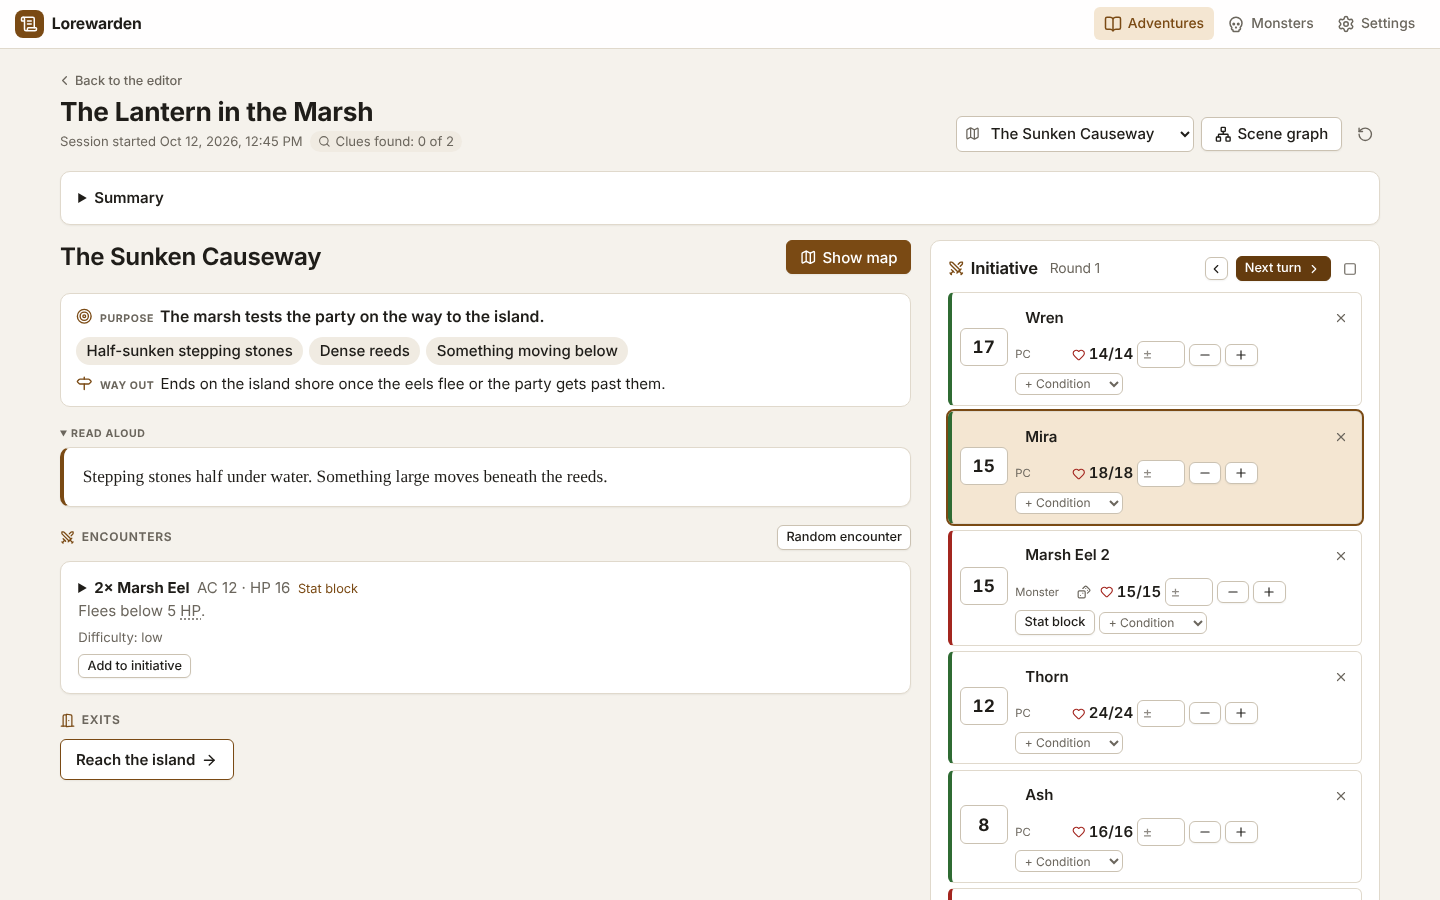
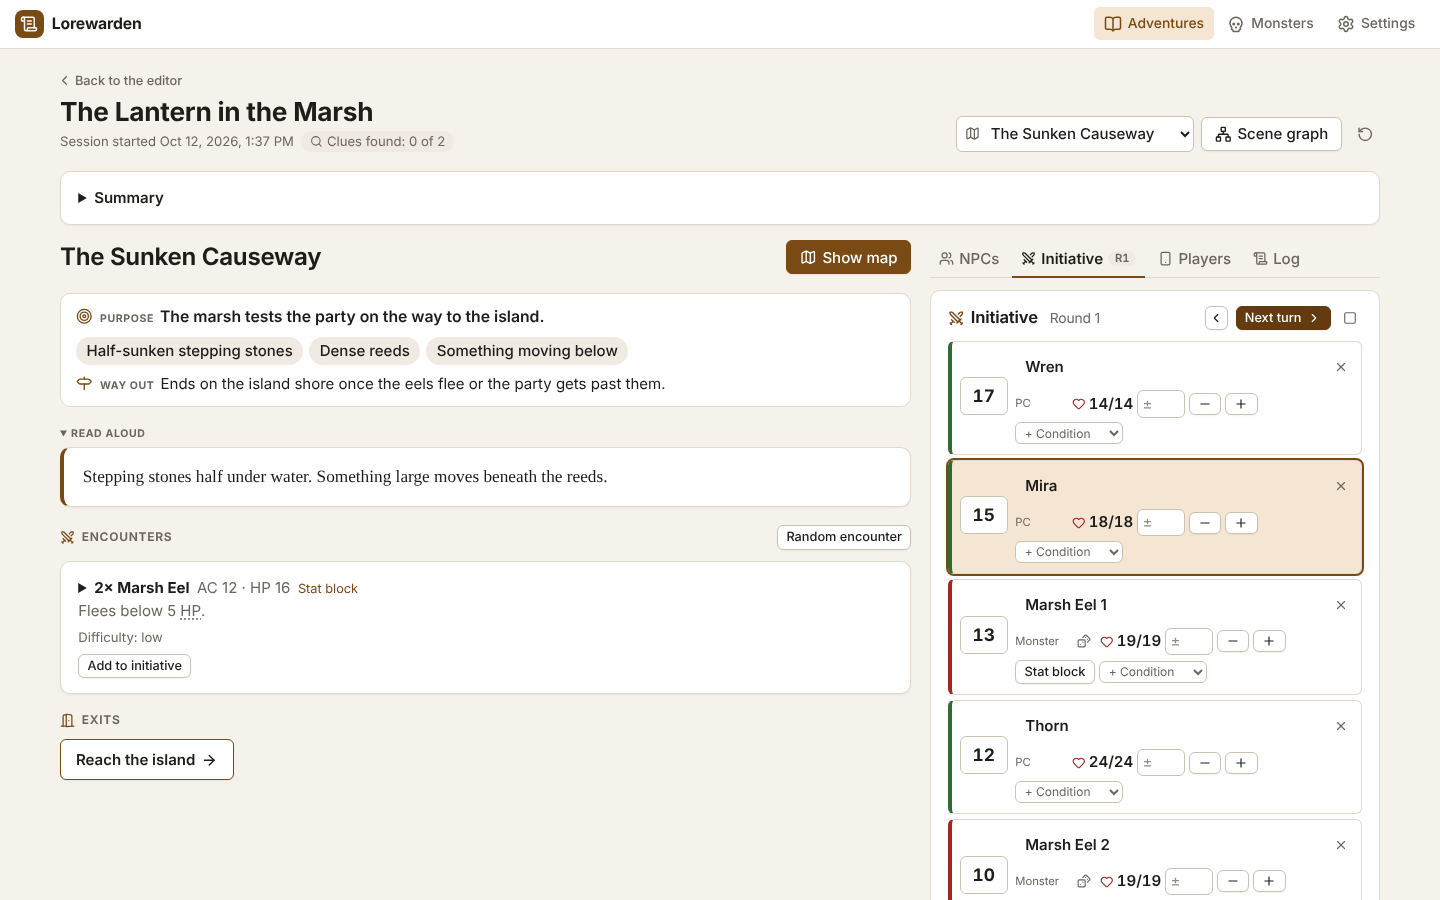
Retake the README screenshots for the new live mode layout

Changed region(s): [[0.6562, 0.28, 0.9688, 0.9956], [0.2188, 0.1556, 0.3125, 0.1867]]

diff --git a/README.md b/README.md
@@ -4,7 +4,7 @@ A local-first toolkit for game masters of 5e-compatible tabletop RPGs: prepare y
 
 > **Status:** early development. Lorewarden is ready to prepare and run short adventures, but the adventure file format and the interface may still change between releases. Ideas and planned work are tracked in the [issues](https://github.com/mLampir/lorewarden/issues).
 
-![Live mode: the scene the party is in, with its purpose, read-aloud text and encounter, next to the running initiative tracker](docs/images/live-mode.png)
+![Live mode: the scene the party is in, with its purpose, read-aloud text and encounter, next to the side tabs with the running initiative](docs/images/live-mode.png)
 
 ## Principles
 
